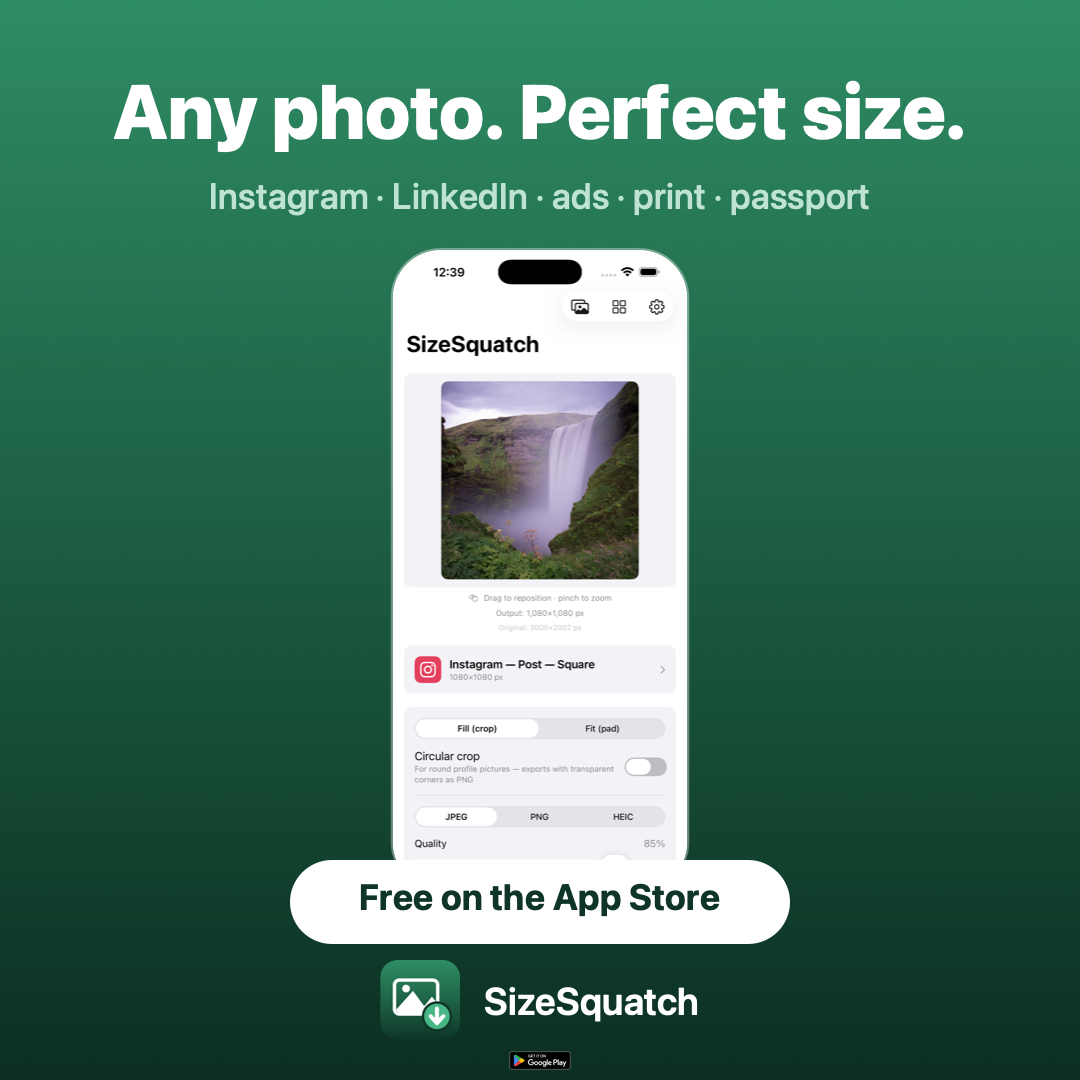
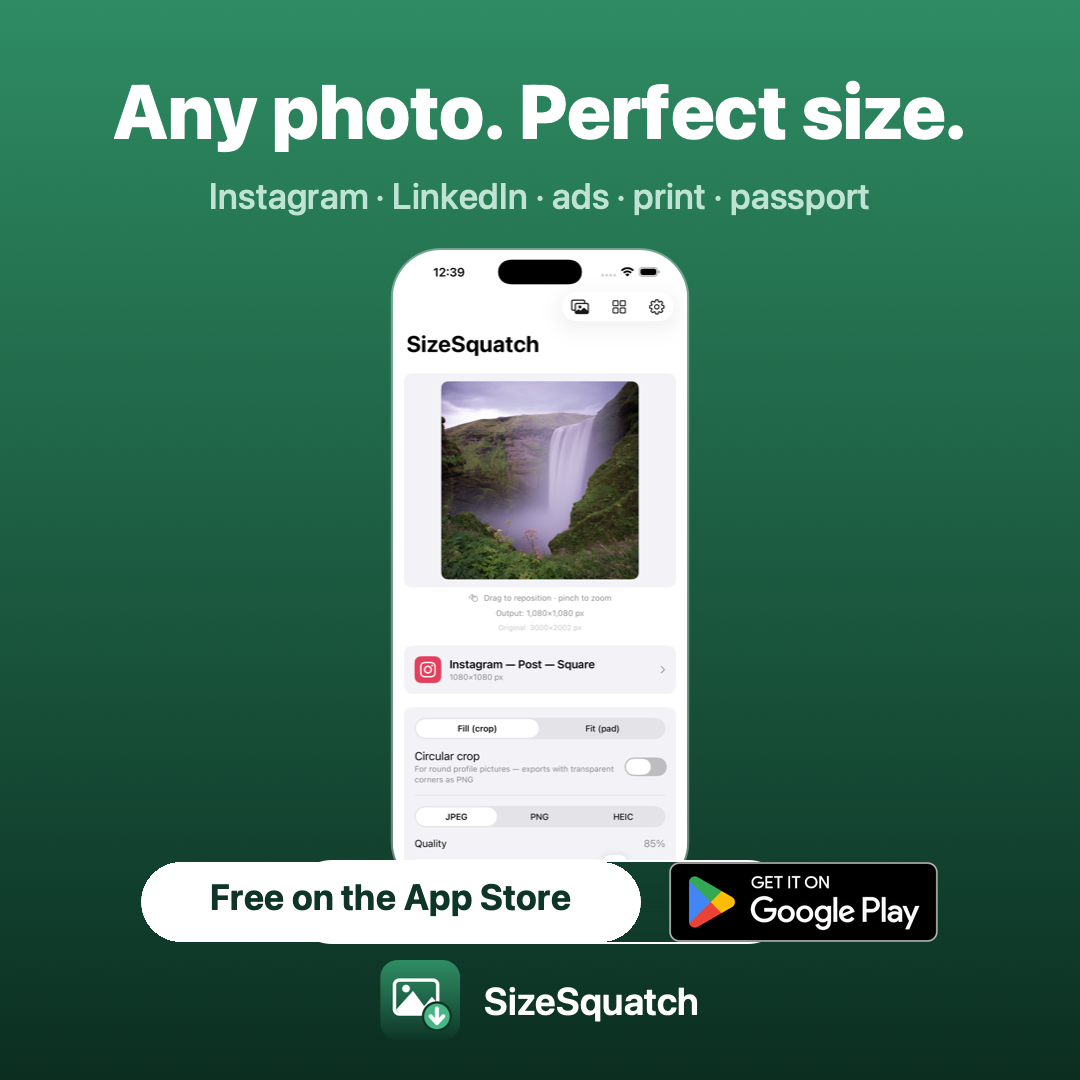
Ads: SizeSquatch feed v2 with App Store pill and Google Play badge side by side

Changed region(s): [[0.1222, 0.7944, 0.8861, 0.8861], [0.4583, 0.9472, 0.55, 1.0]]

diff --git a/ads/make_sizesquatch_feed_badge.py b/ads/make_sizesquatch_feed_badge.py
@@ -1,0 +1,22 @@
+#!/usr/bin/env python3
+"""Rebuild ads/sizesquatch-ad-feed-v2.png: the original feed creative with its "Free on the App
+Store" pill and Google's official Play badge side by side at equal height. The original is never
+modified. Run from the repo root: python3 ads/make_sizesquatch_feed_badge.py"""
+from PIL import Image, ImageDraw
+src = Image.open('ads/sizesquatch-ad-feed.png').convert('RGBA'); W, H = src.size; px = src.load()
+white = lambda p: p[0] > 245 and p[1] > 245 and p[2] > 245
+ys = [y for y in range(800, 1000) if white(px[320, y])]; y0, y1 = min(ys), max(ys)     # x=320 is outside the phone
+xs = [x for x in range(W) if white(px[x, (y0 + y1) // 2])]; x0, x1 = min(xs), max(xs)
+pw, ph = x1 - x0 + 1, y1 - y0 + 1
+pill = src.crop((x0, y0, x1 + 1, y1 + 1))
+mask = Image.new('L', (pw, ph), 0); ImageDraw.Draw(mask).rounded_rectangle((0, 0, pw - 1, ph - 1), radius=ph // 2, fill=255)
+pill.putalpha(mask)
+out = src.copy(); o = out.load()
+for y in range(y0, y1 + 1):                      # erase the pill with the vertical gradient sampled at x=40
+    c = px[40, y]
+    for x in range(x0, x1 + 1): o[x, y] = c
+badge = Image.open('badge-google-play.png').convert('RGBA'); badge = badge.crop(badge.getbbox())
+bw = round(badge.width * ph / badge.height); badge = badge.resize((bw, ph), Image.LANCZOS)
+gap = 28; sx = (W - (pw + gap + bw)) // 2
+out.alpha_composite(pill, (sx, y0)); out.alpha_composite(badge, (sx + pw + gap, y0))
+out.convert('RGB').save('ads/sizesquatch-ad-feed-v2.png'); print('wrote ads/sizesquatch-ad-feed-v2.png')
